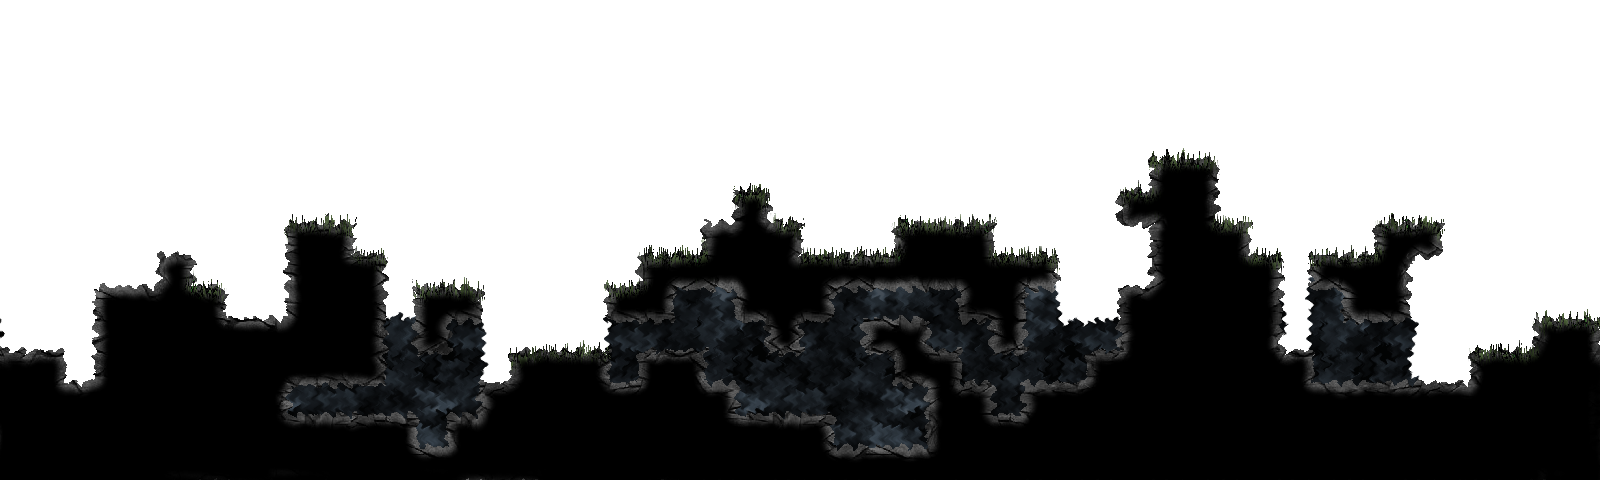
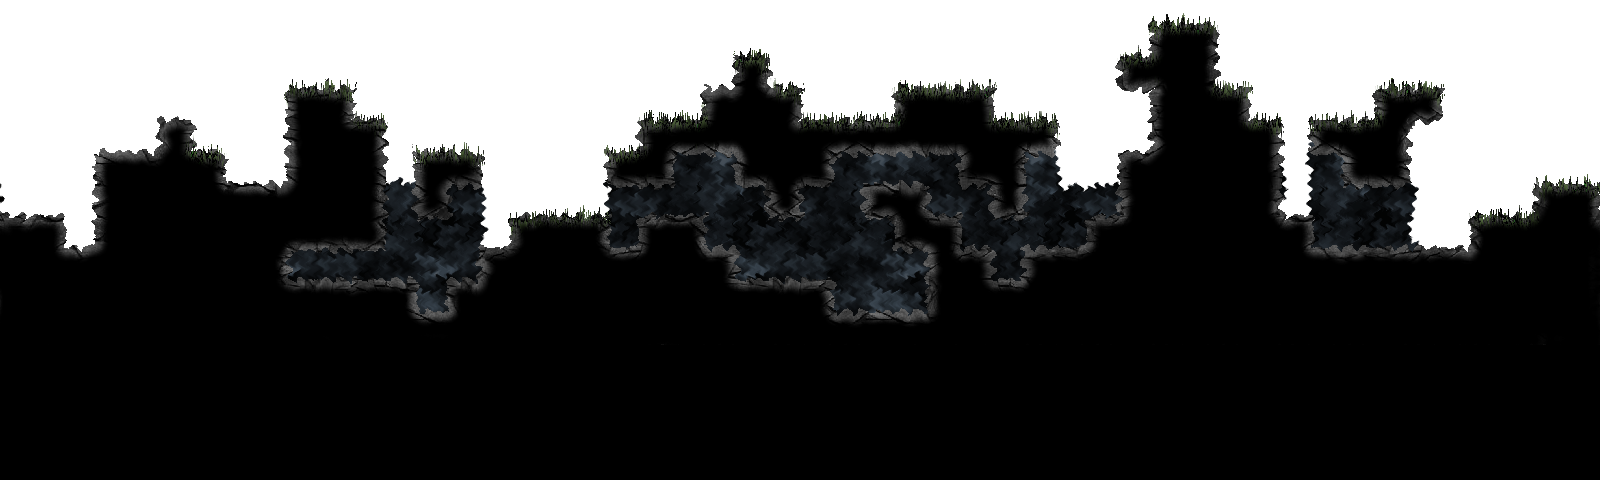
visually acceptable parallax scrolling, but this seems to result in a high CPU load

diff --git a/live_html/tilemap_test.html b/live_html/tilemap_test.html
@@ -10,10 +10,12 @@
     <script type="text/javascript">
 
     window.onload = function() {
-	var game = new Phaser.Game(800, 600, Phaser.AUTO, 'phaser-example', { preload: preload, create: create, update: update, render: render });
+	var game = new Phaser.Game(640, 480, Phaser.AUTO, 'phaser-example', { preload: preload, create: create, update: update, render: render });
 
 	function preload() {
 	    game.load.image('background', 'darkrock.png');
+	    game.load.image('nearhorizon', 'horizon2.png');
+	    game.load.image('farhorizon', 'horizon1.png');
 	    game.load.tilemap('map', 'test.json', null, Phaser.Tilemap.TILED_JSON);
 	    game.load.image('basic', 'main.png');
 	    game.load.image('special', 'special.png');
@@ -29,6 +31,7 @@
 
 	var map;
 	var layer;
+	var nearhorizon;
 
 	function create() {
 
@@ -36,6 +39,9 @@
 
 	    game.stage.backgroundColor = '#808080';
 	    //var background = game.add.tileSprite(0, 0, 2000, 600, 'background', 0);
+	    //var nearhorizon = game.add.image(0, 200, 'nearhorizon');
+	    farhorizon = game.add.tileSprite(0, 100, 1600, 600, 'farhorizon', 0);
+	    nearhorizon = game.add.tileSprite(0, 300, 1600, 600, 'nearhorizon', 0);
 
 	    map = game.add.tilemap('map');
 	    
@@ -76,9 +82,12 @@
 	}
 
 	function update() {
-
 	    ghost.angle = ghost.body.velocity.x / 15
 	    //ghost.scale.setTo(1+Math.abs(ghost.body.velocity.x/2000), 1+Math.abs(ghost.body.velocity.y/1000))
+	    nearhorizon.tilePosition.x = -game.camera.position.x/8;
+	    farhorizon.tilePosition.x = -game.camera.position.x/16;
+	    nearhorizon.tilePosition.y = -game.camera.position.y/8;
+	    farhorizon.tilePosition.y = -game.camera.position.y/16;
 
 	    if (cursors.left.isDown)
 	    {
@@ -91,6 +100,7 @@
 	    }
 	    else if (cursors.right.isDown)
 	    {
+		nearhorizon.tilePosition.x -=1;
 		ghost.scale.x = -1;
 		if (ghost.body.velocity.x <= 250) {
 		  ghost.body.velocity.x += 10;
